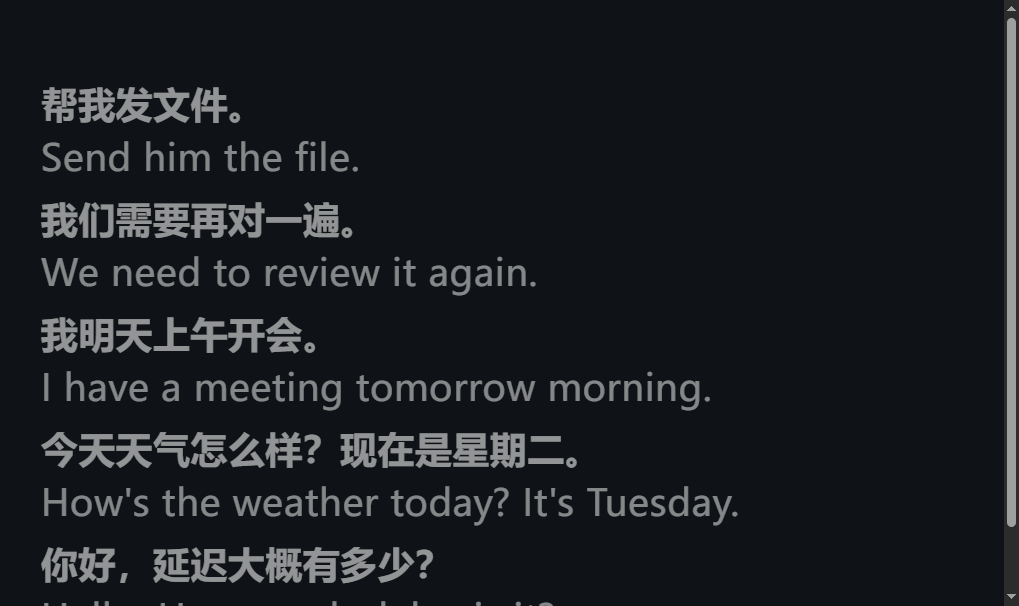
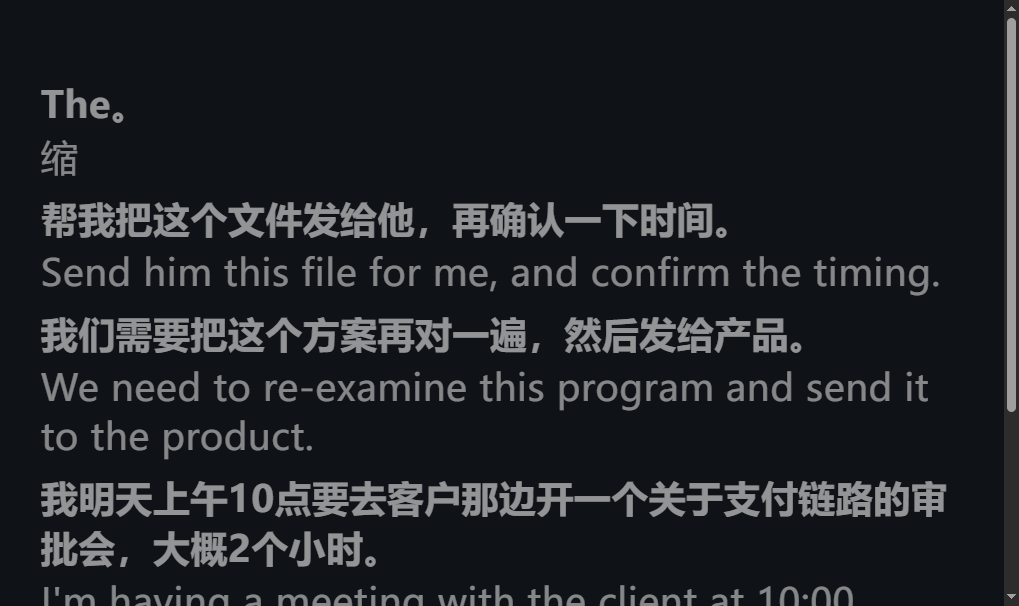
fix(sub): keep latest final in history when not rendering it

diff --git a/tests/test_subtitle_render.py b/tests/test_subtitle_render.py
@@ -1,4 +1,4 @@
-"""字幕页 render：当前行与历史不重复 last。"""
+"""字幕页 render：final 去重；idle/speaking 保留 last。"""
 from __future__ import annotations
 
 from app.subtitle import render
@@ -21,18 +21,35 @@ def test_render_hist_skips_same_t_as_last() -> None:
 
 
 def test_render_idle_clears_current() -> None:
-    last = {"zh": "对。", "en": "Yes.", "t": 1.0}
+    last = {"zh": "对。我觉得可以。", "en": "Yes.", "t": 100.1}
+    older = {"zh": "帮我发文件。", "en": "Send him the file.", "t": 99.0}
     view = render(
         {
             "state": "idle",
             "partial_zh": "残影",
             "last": last,
-            "history": [last],
+            "history": [last, older],
         }
     )
     assert view["curZh"] == ""
     assert view["curEn"] == ""
-    assert view["histRows"] == []
+    assert view["histRows"][0]["zh"] == "对。我觉得可以。"
+    assert view["histRows"] == [last, older]
+
+
+def test_render_speaking_keeps_last_in_history() -> None:
+    last = {"zh": "帮我发文件。", "en": "Send him the file.", "t": 100.0}
+    view = render(
+        {
+            "state": "speaking",
+            "partial_zh": "今天天气",
+            "last": last,
+            "history": [last],
+        }
+    )
+    assert view["curZh"] == "今天天气"
+    assert view["curEn"] == ""
+    assert view["histRows"] == [last]
 
 
 def test_render_speaking_uses_partial() -> None:

diff --git a/app/subtitle.py b/app/subtitle.py
@@ -40,7 +40,11 @@ class SubtitleState:
 
 
 def render(state: dict[str, Any] | None) -> dict[str, Any]:
-    """页面渲染纯函数：当前行 + 历史（跳过与 last 同 t 的条目，避免双显）。"""
+    """页面渲染纯函数：当前行 + 历史。
+
+    仅 final 时跳过与 last 同 t 的条目（避免大字行双显）；
+    idle/speaking 时 last 不在大字行，必须留在历史。
+    """
     st = state or {}
     kind = str(st.get("state") or "idle")
     partial = str(st.get("partial_zh") or "")
@@ -56,13 +60,16 @@ def render(state: dict[str, Any] | None) -> dict[str, Any]:
     # idle → 当前行空
 
     last_t = last.get("t") if isinstance(last, dict) else None
+    skip_t = last_t if kind == "final" else None
     hist_rows: list[dict[str, Any]] = []
     for h in history:
         if not isinstance(h, dict):
             continue
-        if last_t is not None and h.get("t") == last_t:
+        if skip_t is not None and h.get("t") == skip_t:
             continue
         hist_rows.append(h)
+    # idle 可能多出一行（含 last）；与 final 统一截到 5 条
+    hist_rows = hist_rows[: _HISTORY_MAX - 1]
 
     return {"curZh": cur_zh, "curEn": cur_en, "histRows": hist_rows}
 

diff --git a/scripts/subtitle_server.py b/scripts/subtitle_server.py
@@ -91,7 +91,7 @@ _HTML = r"""<!DOCTYPE html>
       .replace(/&/g, "&amp;").replace(/</g, "&lt;").replace(/>/g, "&gt;");
   }
 
-  /** 与 app.subtitle.render 对齐：跳过 h.t === last.t */
+  /** 与 app.subtitle.render 对齐：仅 final 时跳过 h.t === last.t */
   function render(st) {
     var state = (st && st.state) || "idle";
     var partial = (st && st.partial_zh) || "";
@@ -104,12 +104,14 @@ _HTML = r"""<!DOCTYPE html>
       curZh = last.zh || ""; curEn = last.en || "";
     }
     var lastT = last && last.t;
+    var skipT = (state === "final") ? lastT : null;
     var histRows = [];
     for (var i = 0; i < history.length; i++) {
       var h = history[i] || {};
-      if (lastT != null && h.t === lastT) continue;
+      if (skipT != null && h.t === skipT) continue;
       histRows.push(h);
     }
+    histRows = histRows.slice(0, 5);
     return { curZh: curZh, curEn: curEn, histRows: histRows };
   }
 

diff --git a/docs/SUBTITLE.md b/docs/SUBTITLE.md
@@ -65,9 +65,11 @@ REM 离线 dualsim 联调
 
 ### 显示修复（2026-11-06 续）
 
-- 当前行与 `history` 按 `t` 去重（`render()`）；`final.t` 写盘侧保证唯一  
+- **仅 `final`** 时按 `t` 跳过与大字行相同的 `last`（避免双显）；`final.t` 写盘侧保证唯一  
+- **idle/speaking 不跳过 last**（否则最新一句从历史消失）  
 - 定稿后 3s / `close()` → `idle`（当前行空，句子留在历史）  
-- 有界队列 maxsize=8  
+- 有界队列 maxsize=8；历史展示统一截到 5 行  
+
 
 ### 截图
 
